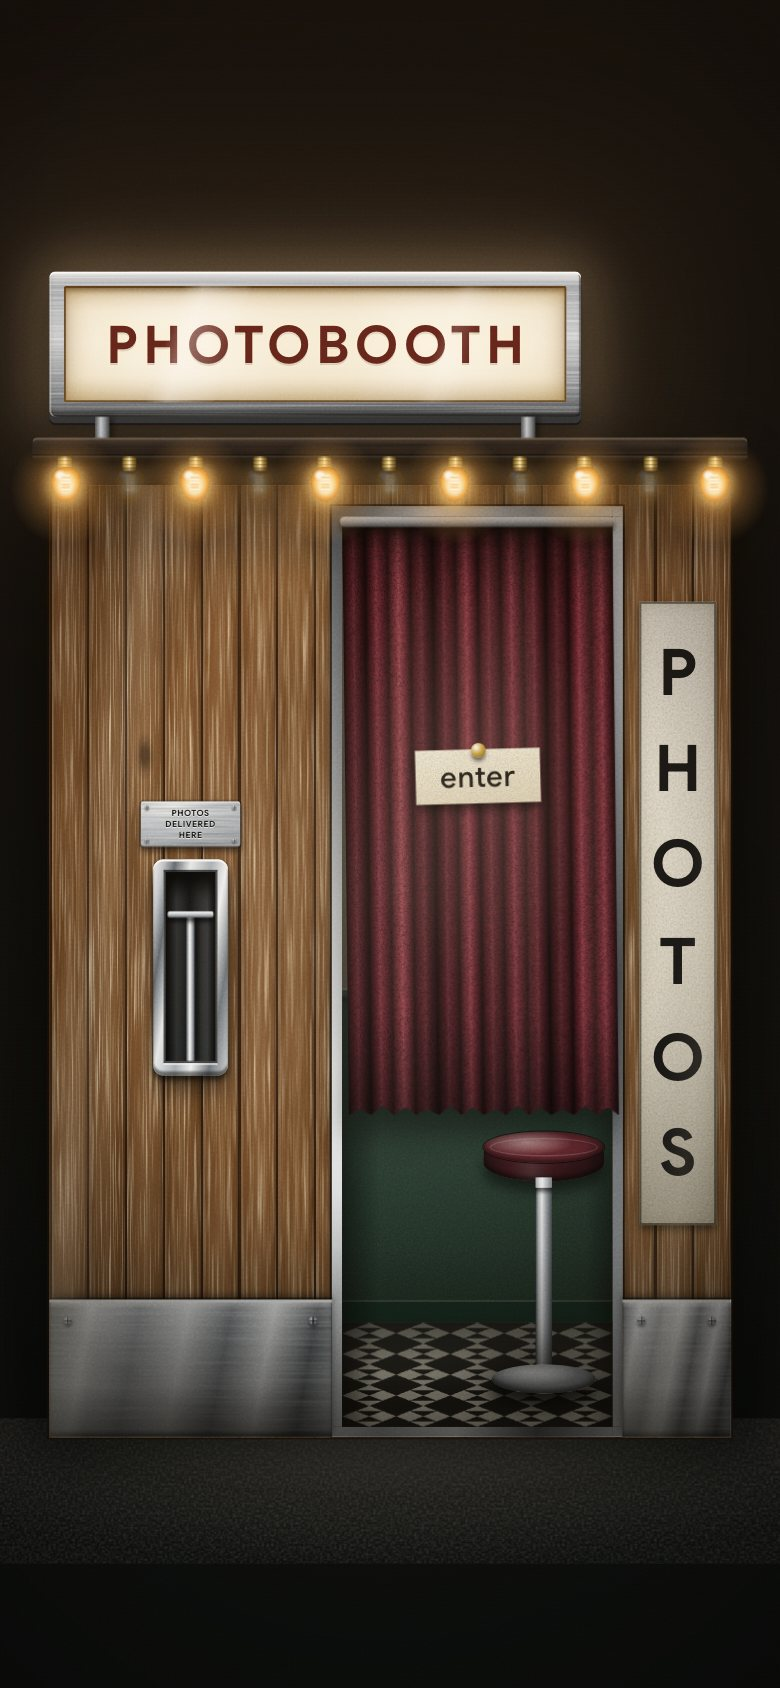
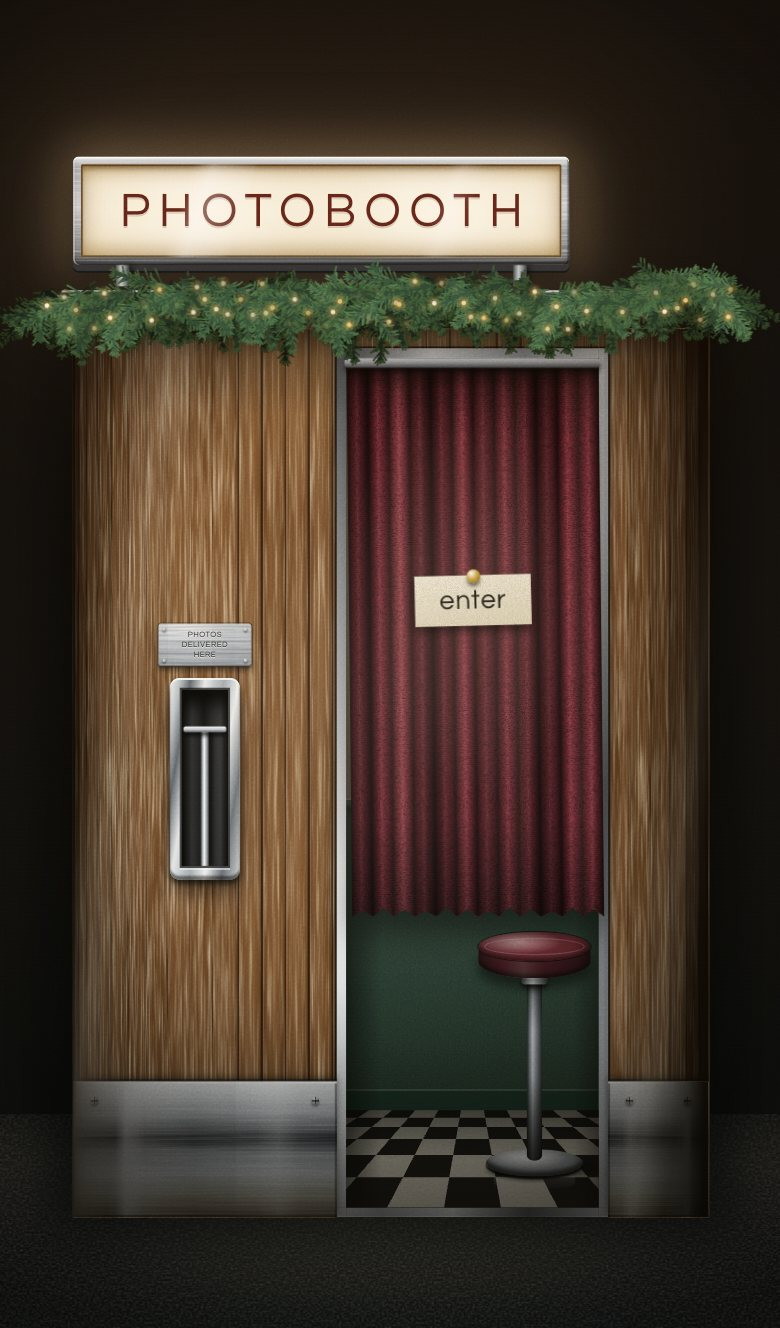
Update README: current features, new screenshots, tone lab, retouch, fonts
Claude-Session: https://claude.ai/code/session_01MoD5uRxUHEnPFLnJRmDGaW

diff --git a/README.md b/README.md
@@ -1,11 +1,11 @@
 # photobooth
 
-연말 흑백 빈티지 포토부스 웹. 커튼을 열고 들어가 6장을 찍고, 마음에 드는 컷을 골라 검정 프레임 사진으로 인화한 뒤, 사진 배경 위에 올려 **인스타 피드(3:4) · 스토리(9:16)** 이미지로 저장합니다.
+연말 흑백 빈티지 포토부스 웹. 커튼을 열고 들어가 6장을 찍고, 마음에 드는 컷을 골라 얇은 검정 프레임 사진으로 인화한 뒤, 사진 배경 위에 올려 **인스타 피드(3:4) · 스토리(9:16)** 이미지로 저장합니다. 은은한 얼굴·피부 보정과 톤 조정이 들어 있습니다.
 
-**서버가 없습니다.** 사진은 기기 밖으로 나가지 않고, 각자 브라우저(IndexedDB)에만 저장됩니다.
+**서버가 없습니다.** 사진은 기기 밖으로 나가지 않고, 각자 브라우저(IndexedDB)에만 저장됩니다. 얼굴 인식 모델도 기기 안에서 실행됩니다.
 
 - Next.js 16 (App Router) · React 19 · TypeScript
-- 카메라: `getUserMedia` (HTTPS 필수) · 합성: Canvas
+- 카메라: `getUserMedia`(HTTPS 필수) · 합성과 보정: Canvas · 얼굴 인식: MediaPipe Face Landmarker(wasm)
 
 ## 빠른 시작
 
@@ -14,21 +14,19 @@ Node.js 20 이상이 필요합니다.
 ```bash
 git clone https://github.com/lovejoohero0228/photobooth.git
 cd photobooth
-npm install
+npm install        # 얼굴 인식용 wasm이 public/mediapipe/wasm 으로 자동 복사됩니다(postinstall)
 npm run dev -- -p 3123
 ```
 
-브라우저에서 <http://localhost:3123> 을 엽니다. `localhost`는 HTTPS가 아니어도 카메라가 켜집니다.
-
-> 휴대폰에서 열어 보려면 아래 [휴대폰에서 테스트](#휴대폰에서-테스트)를 보세요.
+브라우저에서 <http://localhost:3123> 을 엽니다. `localhost`는 HTTPS가 아니어도 카메라가 켜집니다. 휴대폰에서 열어 보려면 [휴대폰에서 테스트](#휴대폰에서-테스트)를 보세요.
 
 ## 사용법
 
-화면은 `/` 하나이고, 페이지 이동 없이 이어집니다. 아래 스크린샷의 카메라 화면은 개발용 가짜 영상(테스트 패턴)입니다.
+화면은 `/` 하나이고, 페이지 이동 없이 이어집니다. 아래 스크린샷의 카메라 화면은 개발용 가짜 영상(테스트 패턴)이고, 사진은 `or try with sample photos`로 만든 샘플 컷입니다.
 
 ### 1. 부스 밖 — `enter`
 
-커튼의 `enter` 쪽지를 누르면 커튼이 걷히고 문 안으로 들어갑니다. 사진을 찍은 뒤에는 왼쪽 배출구에 최근 사진이 꽂혀 보이고, 누르면 보관함(my photos)이 열립니다.
+커튼의 `enter` 쪽지를 누르면 커튼이 걷히고 문 안으로 들어갑니다. 상단 간판은 네온처럼 깜빡이고, 가랜드의 작은 전구도 반짝입니다. 사진을 찍은 뒤에는 왼쪽 배출구에 최근 사진이 꽂혀 보이고, 누르면 보관함(my photos)이 열립니다.
 
 <img src="docs/screenshots/01-outside.jpg" width="260" alt="부스 외관" />
 
@@ -36,21 +34,23 @@ npm run dev -- -p 3123
 
 들어가면 바로 카메라가 켜집니다.
 
-- 화면 아래 `1.2x` / `1.5x`로 확대 배율을 고릅니다. 휴대폰 전면 카메라는 광각이라 확대 옵션을 뒀고, 고른 배율은 기기에 기억됩니다.
-- `start shooting`을 누르면 5초를 세고 한 장씩, 총 6장을 연속으로 찍습니다. 기다리기 싫으면 `shoot now`로 바로 찍을 수 있습니다.
-- 카메라를 쓸 수 없으면 `upload photos`로 사진을 불러오거나, `or try with sample photos`로 샘플 컷 6장을 만들어 바로 뒷 단계로 갈 수 있습니다.
+- 화면 아래에서 확대 배율 `1.2x` / `1.5x`를 고르고, `flash on/off`로 플래시를 켜고 끕니다. 두 설정은 기기에 기억됩니다.
+  - 휴대폰 전면 카메라는 광각이라 확대 옵션을 뒀습니다(아이폰 기본 1.5x, 그 밖의 기기 1.2x).
+  - 플래시: 카메라가 토치를 지원하면 그것을, 아니면(전면 카메라 대부분) 마지막 1초에 화면 전체를 환하게 켭니다.
+- `start shooting`을 누르면 5초를 세고 한 장씩, 총 6장을 연속으로 찍습니다. 기다리기 싫으면 숫자 아래 `shoot now`로 바로 찍습니다.
+- 카메라를 쓸 수 없거나 빠르게 둘러보고 싶으면 `upload photos` 또는 `or try with sample photos`(샘플 컷 6장)로 바로 다음 단계로 갑니다.
 
-<img src="docs/screenshots/02-inside.jpg" width="260" alt="부스 안 카메라 화면" /> <img src="docs/screenshots/03-countdown.jpg" width="260" alt="카운트다운" />
+<img src="docs/screenshots/02-inside.jpg" width="260" alt="부스 안 카메라 화면" /> <img src="docs/screenshots/03-countdown.jpg" width="260" alt="카운트다운과 shoot now" />
 
 ### 3. 레이아웃과 컷 고르기
 
-위에서 `1 cut · 2 cuts · 3 cuts · 4 cuts` 중 레이아웃을 고르고, 아래 6장 중 넣을 컷을 순서대로 누릅니다. 위쪽 미리보기에 바로 반영됩니다. 다 채우면 `print →`가 켜집니다. `← retake`로 처음부터 다시 찍을 수 있습니다.
+위에서 `1 cut · 2 cuts · 3 cuts · 4 cuts` 중 레이아웃을 고르고, 아래 6장 중 넣을 컷을 순서대로 누릅니다. 위쪽 미리보기에 바로 반영됩니다. 다 채우면 `print →`가 켜집니다. `← retake`로 처음부터 다시 찍을 수 있습니다. 여기 보이는 컷은 이미 톤과 보정(아래 [사진 보정](#사진-보정))이 적용된 결과입니다.
 
 <img src="docs/screenshots/04-pick.jpg" width="260" alt="레이아웃과 컷 고르기" />
 
 ### 4. 인화와 저장
 
-잠깐 인화되는 모션 뒤에 사진이 배출구에서 내려와 화면 가운데 틀로 똑 떨어집니다.
+잠깐 인화되는 모션 뒤에 사진이 배출구에서 내려와 화면의 틀로 똑 떨어집니다.
 
 <img src="docs/screenshots/05-printing.jpg" width="260" alt="인화 중" /> <img src="docs/screenshots/06-result.jpg" width="260" alt="인화된 사진" />
 
@@ -58,12 +58,14 @@ npm run dev -- -p 3123
 
 | 옵션 | 설명 |
 |---|---|
-| 배경 칩 | `plain`(사진만) 또는 `public/bg/`의 사진 배경. 옆으로 밀면 더 있습니다 |
+| 배경 칩 | `plain`(사진만) 또는 `public/bg/`의 사진 배경 15개. 옆으로 밀면 더 있습니다 |
 | `frame` | 켜면 검정 프레임, 끄면 프레임 자리가 투명한 공백(기본: 끔) |
 | `tilt` | 배경 위에서 사진을 살짝 기울임(기본: 켬) |
 | `3:4` / `9:16` | 저장 이미지 비율. 인스타 피드용 / 스토리용 |
 | `← layout` | 레이아웃·컷 고르기 화면으로 돌아감(찍은 컷은 그대로) |
 | `shoot again →` | 처음부터 다시 촬영 |
+
+레이아웃마다 배경 위에서 사진이 차지하는 크기가 다릅니다. 컷이 적을수록 사진이 작고 배경 여백이 넓습니다(1컷은 3×3 격자의 가운데 칸 크기). 9:16은 3:4보다 사진이 조금 작게 놓입니다.
 
 <img src="docs/screenshots/07-backdrop.jpg" width="260" alt="배경 선택 3:4" /> <img src="docs/screenshots/08-story.jpg" width="260" alt="배경 선택 9:16" />
 
@@ -72,6 +74,28 @@ npm run dev -- -p 3123
 - **아이폰:** 공유 시트가 열립니다. 거기서 "이미지 저장"을 고르세요.
 - **안드로이드 · PC:** 파일이 바로 다운로드됩니다.
 - **인스타그램·카카오톡 같은 인앱 브라우저:** 카메라나 저장이 막힐 수 있어 상단에 안내가 뜹니다. 외부 브라우저로 여세요.
+
+## 사진 보정
+
+촬영하는 순간 컷마다 **흑백 톤 → 얼굴 보정 → 입자·비네팅** 순으로 현상됩니다. 기본값은 `src/lib/tone.ts`의 `DEFAULT_TONE`입니다.
+
+- **톤:** 노출 · 중간톤 · 대비 · 밝기 · 비네팅 · 입자 · 채도(0이면 흑백) · 색조
+- **뷰티:** 피부 매끈하게, 빛번짐, 그늘 밝히기
+- **얼굴 모양(랜드마크로 비틂):** 갸름하게, 눈 크게, 코 폭, 턱, 얼굴 길이, 이마, 입꼬리, 입술, 눈 사이, 눈썹
+- **피부·눈(부분 보정):** 눈 밑 밝히기, 눈·치아 밝히기, 번들거림, 윤곽, 잡티
+
+얼굴 효과가 하나라도 켜져 있으면 모델(`public/mediapipe/face_landmarker.task`, 약 3.7MB)과 wasm(약 15MB)을 처음 한 번 내려받고, 모두 0이면 모델을 아예 불러오지 않습니다. 얼굴을 못 찾으면 보정 없이 그대로 둡니다.
+
+### `/tone` — 보정 실험 페이지
+
+슬라이더로 값을 직접 만져 보는 페이지입니다. `capture`·`upload`·`sample`로 사진을 불러오면 원본과 결과가 나란히 보입니다.
+
+<img src="docs/screenshots/09-tone-lab.jpg" width="260" alt="톤 실험 페이지" />
+
+- `exact preview`(기본 켬): 부스와 같은 원본 해상도 + 인화지 결로 보여 줍니다. 끄면 빠르지만 부스와 조금 다릅니다.
+- `save as preset`: 현재 값을 `preset 1, 2, 3…`으로 자동 번호를 붙여 저장합니다(이 기기). 목록에서 눌러 불러오고 `✕`로 지웁니다.
+- `use on this device`: 이 기기의 부스가 그 값을 씁니다. `reset`은 기본값으로 되돌립니다.
+- `copy values`: 값을 JSON으로 복사합니다. 모두에게 적용하려면 `DEFAULT_TONE`에 붙여 넣으세요.
 
 ## 휴대폰에서 테스트
 
@@ -100,9 +124,9 @@ cloudflared tunnel --url http://localhost:3123
 
 ## 배포
 
-정적으로 빌드되는 앱이라 어디든 올릴 수 있습니다. [Vercel](https://vercel.com)이 가장 간단합니다.
+서버 기능이 필요 없어서 어디든 올릴 수 있습니다. [Vercel](https://vercel.com)이 가장 간단합니다.
 
-1. Vercel에서 이 GitHub 레포를 Import → Deploy
+1. Vercel에서 이 GitHub 레포를 Import → Deploy (설치 단계에서 얼굴 인식용 wasm이 자동으로 복사됩니다)
 2. 생성된 `https://….vercel.app` 주소를 폰에서 열기 (정식 HTTPS라 카메라·저장이 바로 동작)
 
 로컬에서 프로덕션 빌드를 확인하려면 `npm run build && npm start`.
@@ -111,14 +135,13 @@ cloudflared tunnel --url http://localhost:3123
 
 | 바꾸고 싶은 것 | 파일 |
 |---|---|
-| 촬영 장수 · 카운트다운 · 인화 대기 시간 · 카메라 배율 | `src/lib/config.ts` |
-| 사진 톤(노출·대비) | `src/lib/tone.ts` (`DEFAULT_TONE`) |
-| 레이아웃(컷 수)과 배경 위 사진 크기 | `src/lib/frames.ts` |
+| 촬영 장수 · 카운트다운 · 인화 대기 · 카메라 배율 | `src/lib/config.ts` |
+| 사진 톤·색감·뷰티·얼굴 보정 기본값 | `src/lib/tone.ts` (`DEFAULT_TONE`) |
+| 레이아웃(컷 수)과 배경 위 사진 크기 | `src/lib/frames.ts` (`story`) |
 | 프레임 두께 | `src/lib/frames.ts`의 `PAD` · `GAP` · `FOOT` |
-| 배경 사진 추가·삭제 | `public/bg/`에 파일을 넣고 `src/lib/develop.ts`의 `BACKDROPS`에 한 줄 |
+| 배경 사진 추가·삭제·순서 | `public/bg/`에 파일을 넣고 `src/lib/develop.ts`의 `BACKDROPS` 수정 |
 | 나무 질감·색 (모든 화면 공통) | `src/app/globals.css`의 `--wood-boards` |
-
-`/tone` 페이지에서 노출·대비·색감과 뷰티 효과(피부 매끈하게, 빛번짐, 그늘 밝히기)를 슬라이더로 직접 만져 볼 수 있습니다. 사진을 찍거나 불러오면 원본과 결과가 나란히 보이고, `use on this device`를 누르면 그 기기의 부스가 그 값을 씁니다. 마음에 드는 값은 `copy values`로 복사해 `DEFAULT_TONE`에 옮겨 적으면 모두에게 적용됩니다.
+| 부스 외관(가랜드 · 곡면 · 바닥 · 간판) | `src/components/pb/Exterior.*` · `Garland.tsx` · `BoothSides.tsx` · `Floor.tsx` |
 
 ## 폰트 · 라이선스
 
@@ -126,23 +149,31 @@ cloudflared tunnel --url http://localhost:3123
 |---|---|---|
 | [Questrial](https://fonts.google.com/specimen/Questrial) | 영문 전체 (간판 · 버튼 · 안내) | SIL Open Font License 1.1 — Copyright 2011 The Questrial Project Authors |
 
-Questrial은 Next.js의 `next/font/google`로 빌드 때 받아 우리 서버에서 함께 내보냅니다. SIL OFL 1.1은 상업적 사용·웹 임베딩·재배포를 허용하지만, 폰트 파일 자체를 단독으로 판매하는 것과 폰트를 고쳐서 같은 이름으로 배포하는 것은 금지합니다.
+Questrial은 Next.js의 `next/font/google`로 빌드 때 받아 우리 서버에서 함께 내보냅니다. Regular(400) 한 가지 굵기뿐이라 화면의 모든 굵기를 400으로 맞췄습니다. SIL OFL 1.1은 상업적 사용·웹 임베딩·재배포를 허용하지만, 폰트 파일 자체를 단독으로 판매하는 것과 폰트를 고쳐서 같은 이름으로 배포하는 것은 금지합니다.
+
+얼굴 인식은 [MediaPipe Face Landmarker](https://ai.google.dev/edge/mediapipe/solutions/vision/face_landmarker)(Apache License 2.0)를 사용합니다.
 
 ## 구조
 
 | 경로 | 내용 |
 |---|---|
 | `src/components/pb/Booth.tsx` | 장면 전환(밖·안·배출구)을 맡는 최상위 |
-| `src/components/pb/Exterior.tsx` | 부스 외관 일러스트 (CSS) |
-| `src/components/pb/Interior.tsx` | 부스 안: 촬영, 레이아웃·컷 고르기 |
+| `src/components/pb/Exterior.tsx` | 부스 외관 일러스트(CSS + SVG) |
+| `src/components/pb/Garland.tsx` · `BoothSides.tsx` · `Floor.tsx` | 가랜드와 전구, 둥근 옆면 곡면, 체커보드 바닥 |
+| `src/components/pb/Interior.tsx` | 부스 안: 촬영(카운트다운·플래시·배율), 레이아웃·컷 고르기 |
 | `src/components/pb/Delivery.tsx` | 인화, 배경·옵션 선택, 저장 |
 | `src/components/pb/Album.tsx` | 기기 안 보관함 |
-| `src/components/camera/useCamera.ts` | 카메라 스트림·확대 배율 |
-| `src/lib/frames.ts` | 레이아웃(인화지 모양) 정의 |
-| `src/lib/develop.ts` | 흑백 현상, 인화지·배경 합성, 저장·공유 |
-| `src/lib/tone.ts` | 사진 톤 설정과 비교용 후보 |
+| `src/components/camera/useCamera.ts` | 카메라 스트림 · 확대 배율 · 토치 |
+| `src/app/tone/page.tsx` | `/tone` 보정 실험 페이지 |
+| `src/lib/frames.ts` | 레이아웃(인화지 모양)과 배경 위 크기 정의 |
+| `src/lib/develop.ts` | 컷 현상, 인화지·배경 합성, 저장·공유 |
+| `src/lib/tone.ts` | 보정 값 정의 · 기본값 · 프리셋 저장 |
+| `src/lib/beauty.ts` | 피부 매끈하게 · 빛번짐 · 그늘 밝히기 |
+| `src/lib/face.ts` | 얼굴 인식, 얼굴 모양 비틀기, 피부·눈 부분 보정 |
+| `src/lib/samples.ts` | 샘플 컷(그린 얼굴) |
 | `src/lib/strips.ts` | 기기 안 저장소 (IndexedDB) |
-| `public/bg/` | 배경 사진 |
+| `scripts/copy-mediapipe.mjs` | 설치 후 wasm을 `public/mediapipe/wasm`으로 복사 |
+| `public/bg/` · `public/mediapipe/` | 배경 사진 · 얼굴 인식 모델 |
 | `archive/v1/` | 이전 버전 화면. 빌드에서 제외 |
 | `docs/phase2/` | 원격 참여 버전(2단계)용 스키마·인프라 설계 |
 | `photobooth-spec.md` | 기획 문서 |
